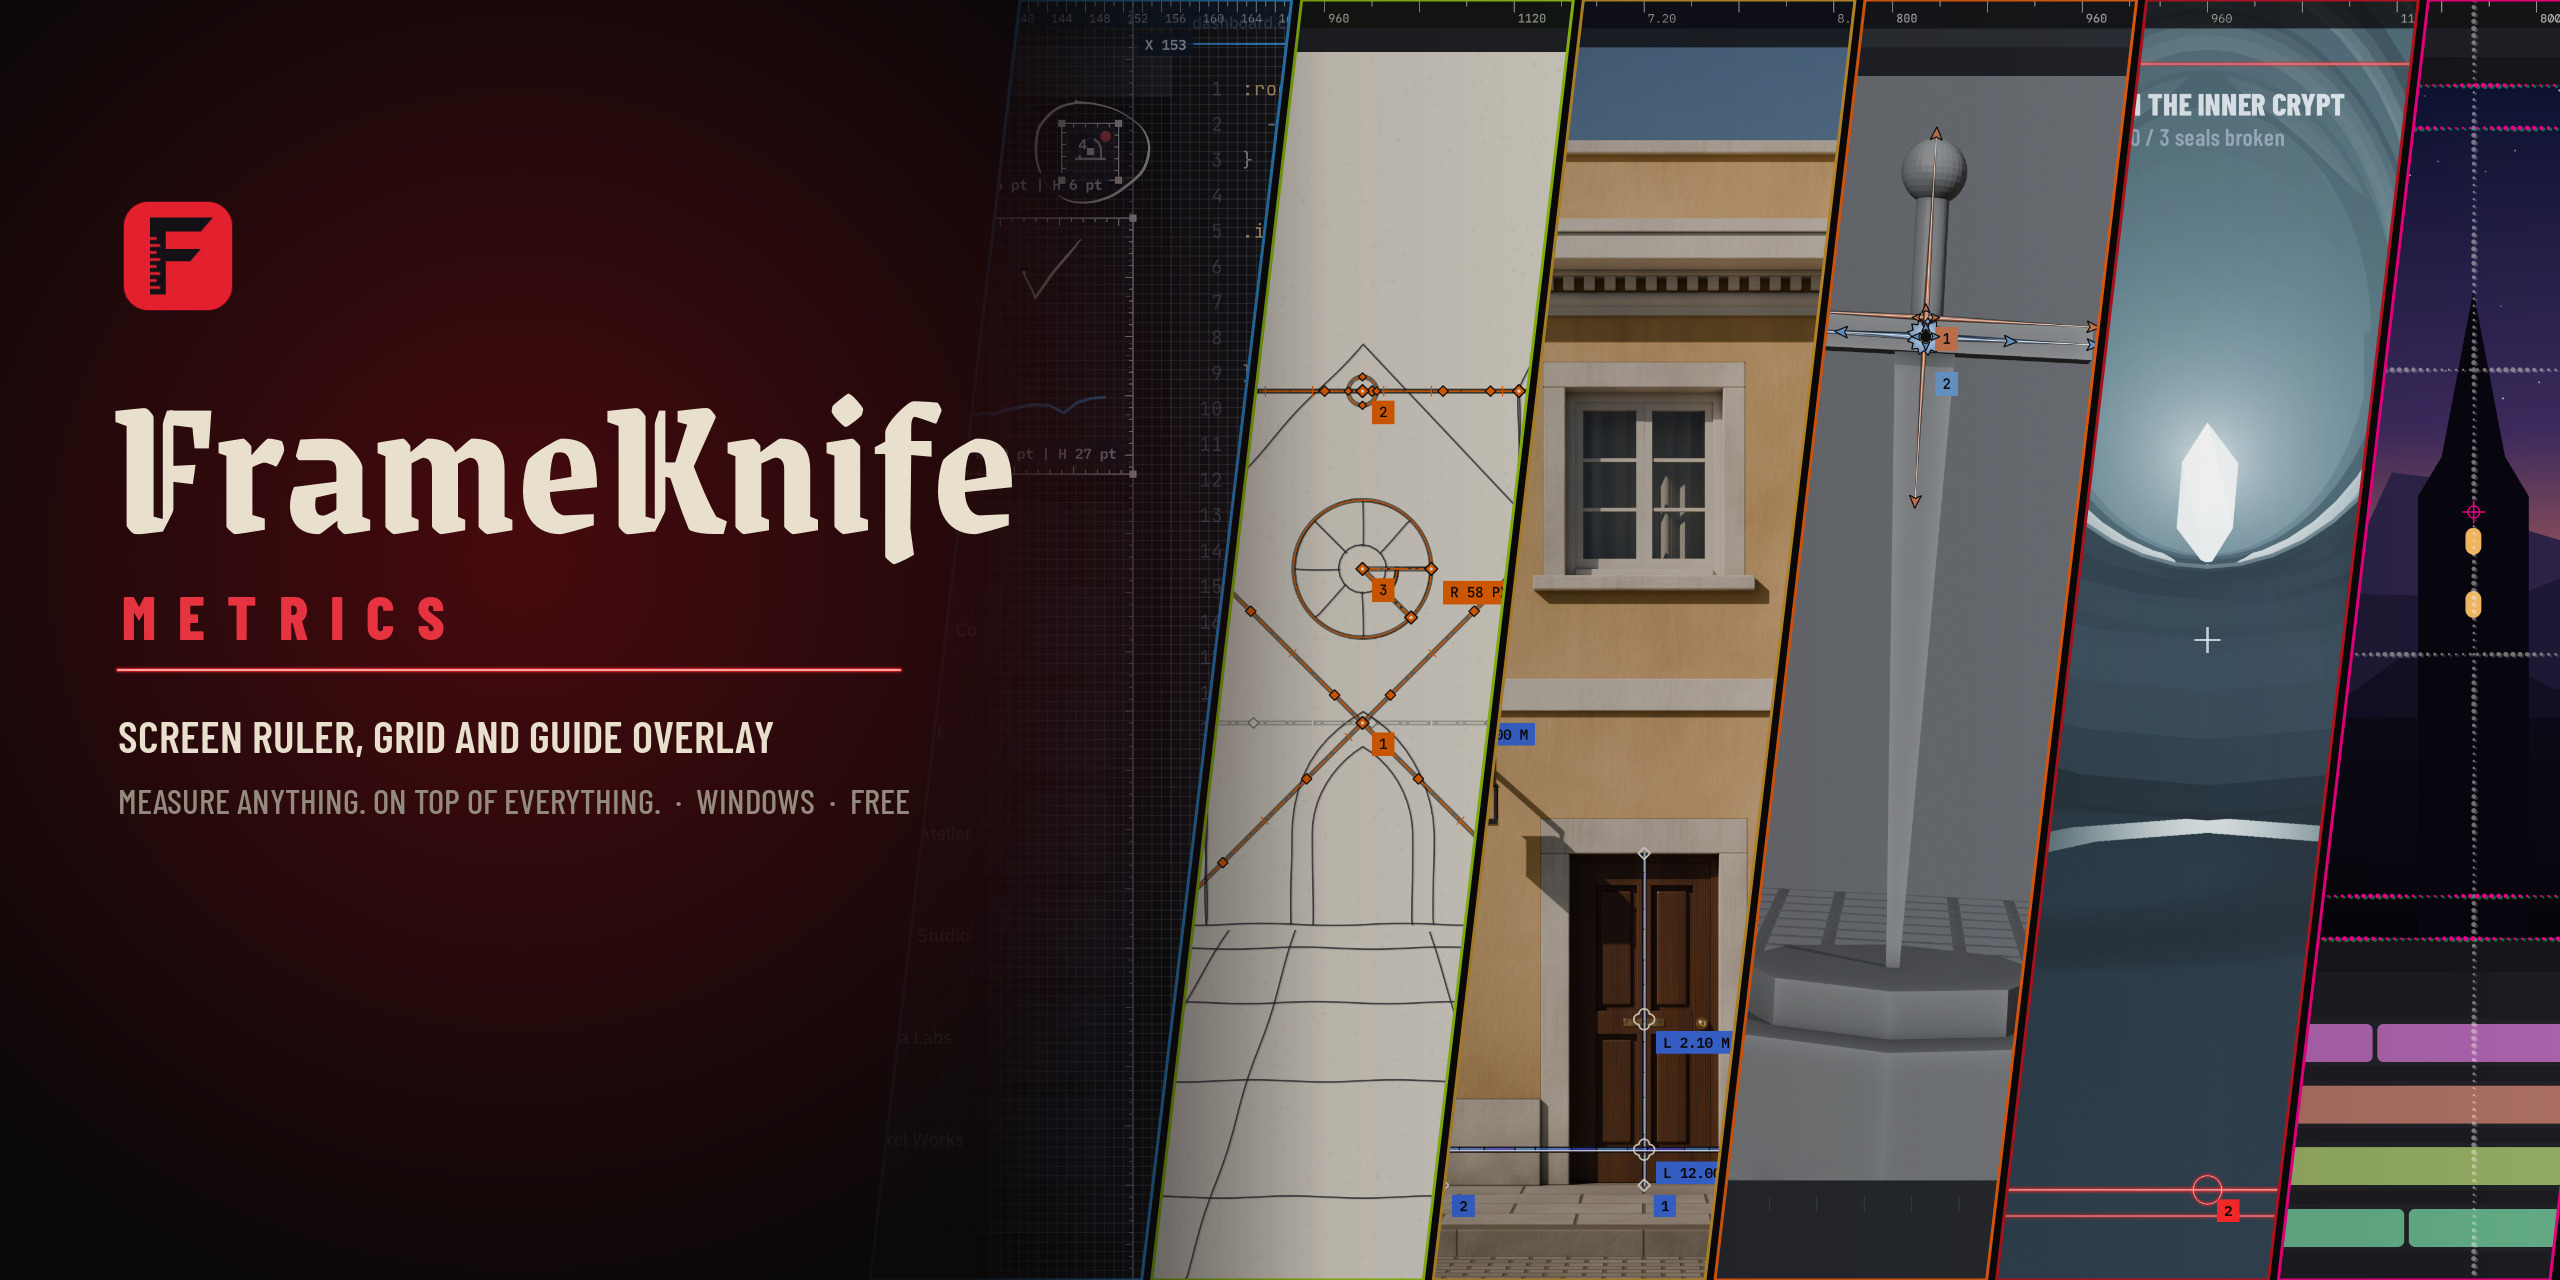
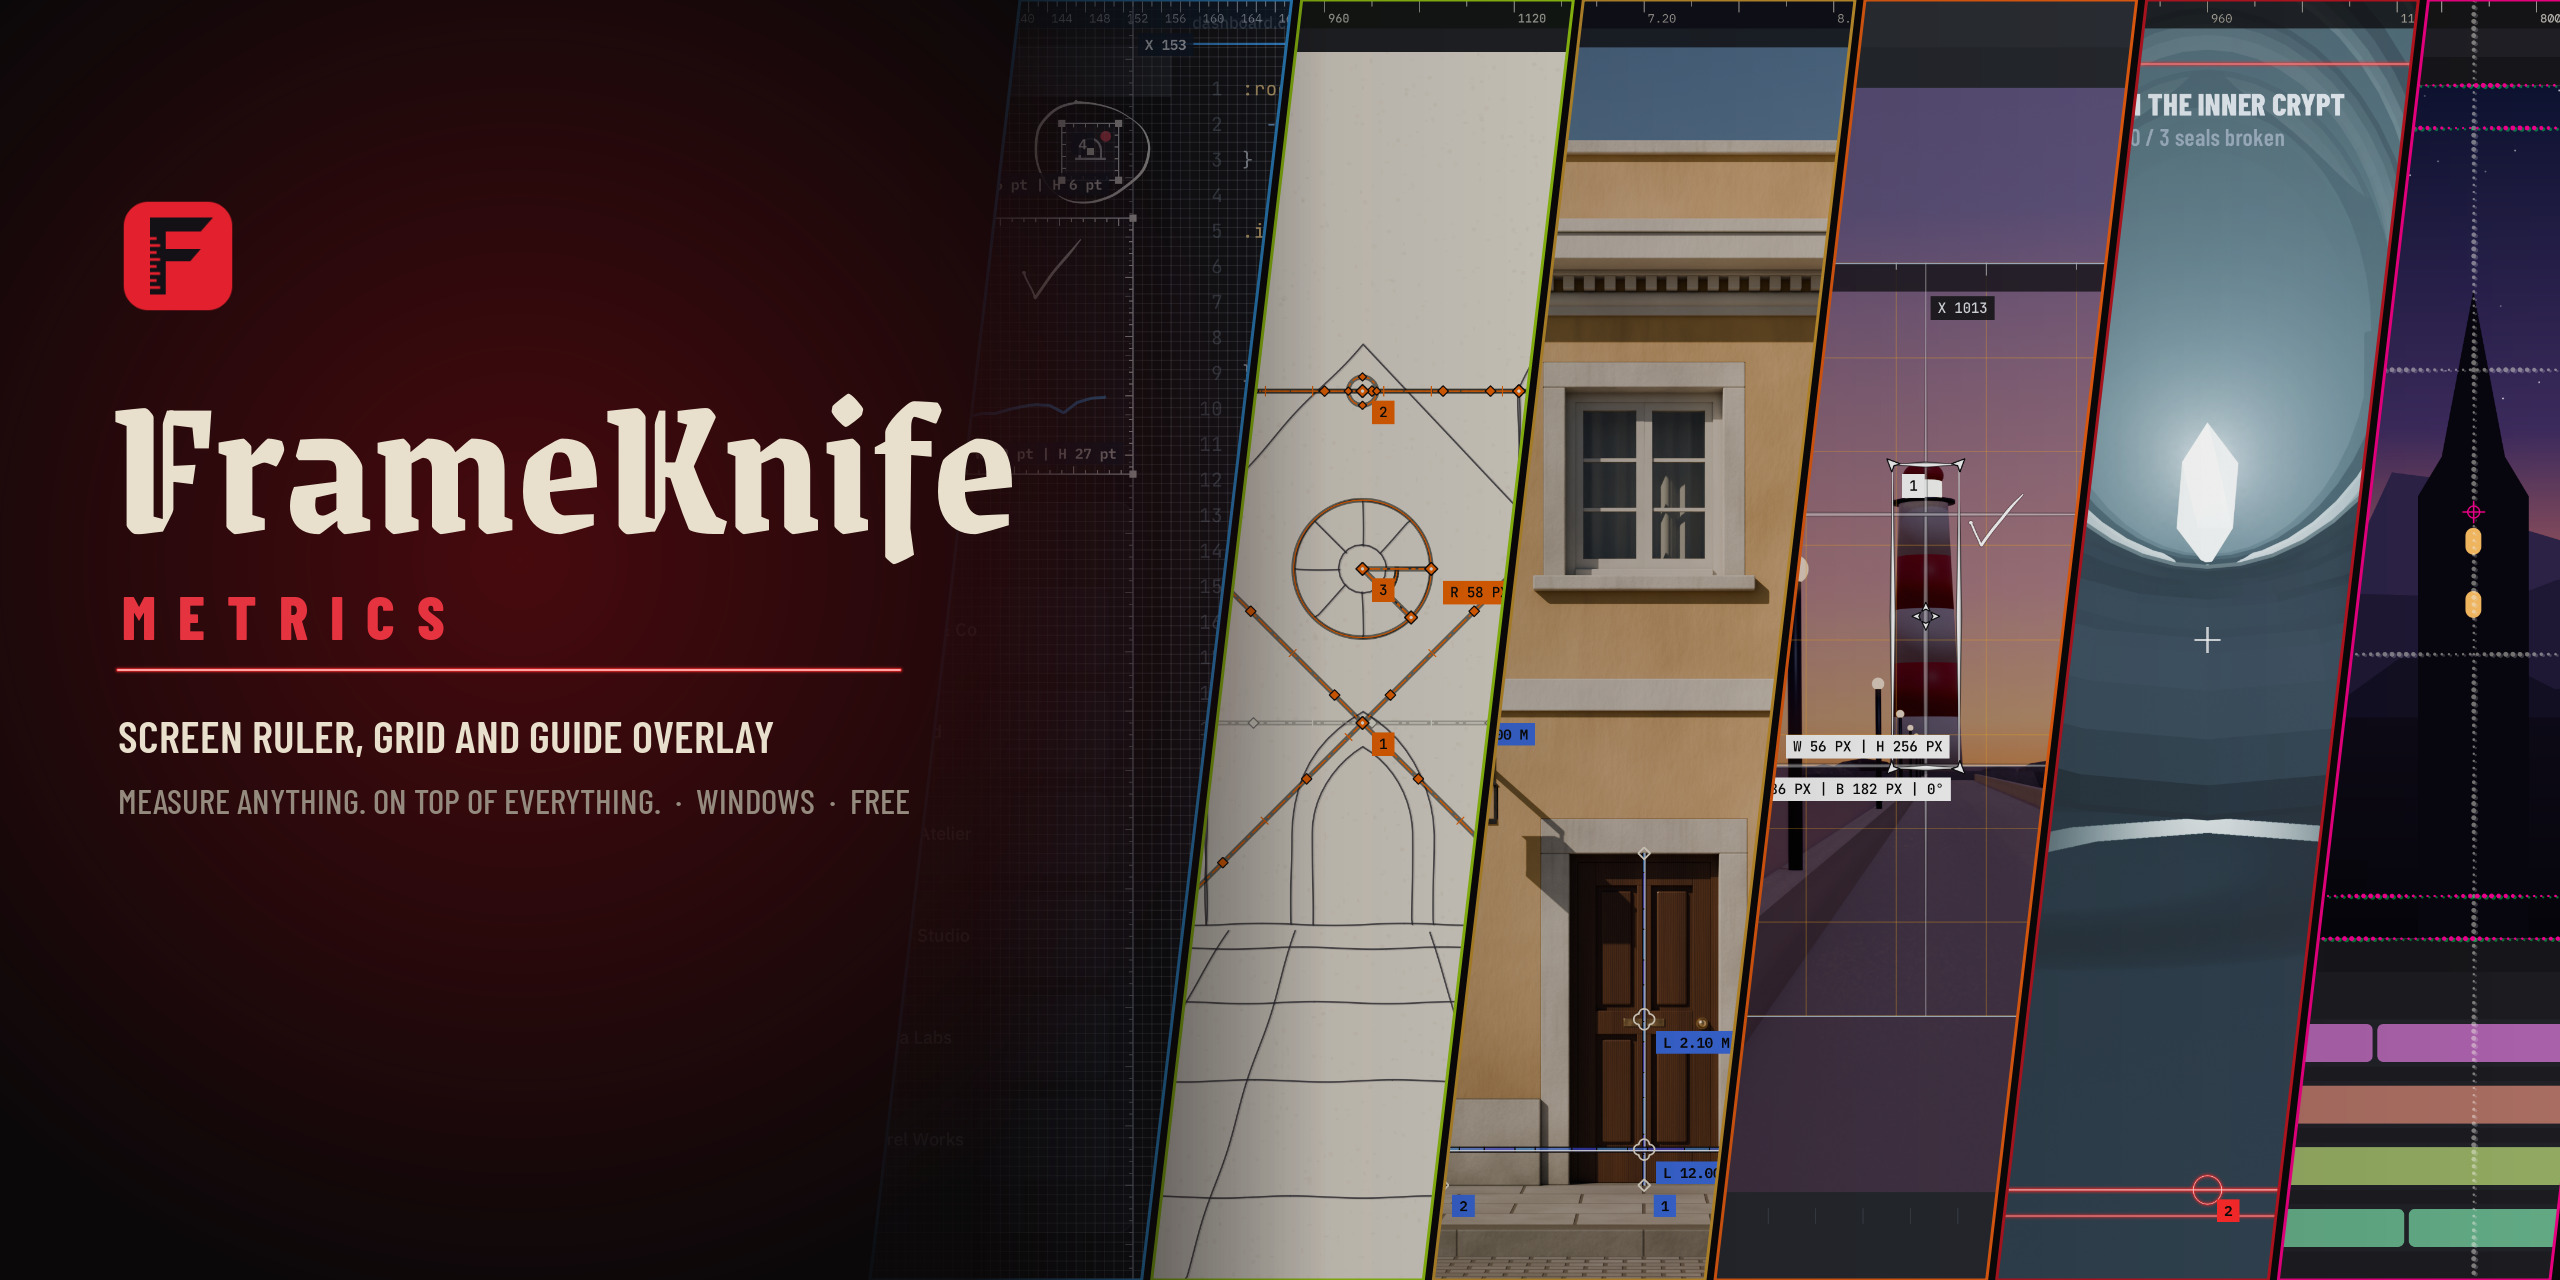
Show the new video and hero with the lighthouse shot (#3)

Changed region(s): [[0.6562, 0.0625, 0.8438, 0.9375], [0.8125, 0.0, 0.8438, 0.0312], [0.75, 0.0, 0.7812, 0.0312]]

diff --git a/README.md b/README.md
@@ -2,7 +2,7 @@
   <img src="media/hero.jpg" alt="FrameKnife Metrics, a transparent always-on-top screen ruler, grid and guide overlay for Windows, measuring a website, a sketch, a photo, a 3D viewport, a game HUD and a video editor" width="100%">
 </p>
 
-https://github.com/user-attachments/assets/e00173d2-5871-4b46-bbdb-943900f7818c
+https://github.com/user-attachments/assets/aa68201d-df81-4d6e-94b4-52f645977896
 
 <h1 align="center">FrameKnife Metrics</h1>
 
